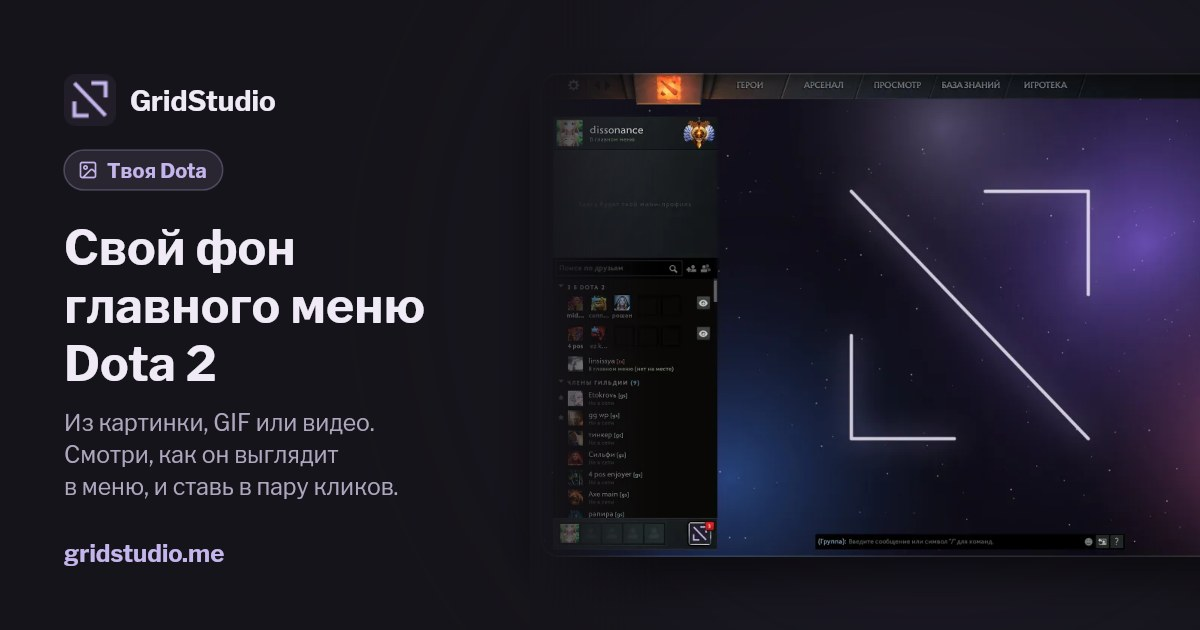
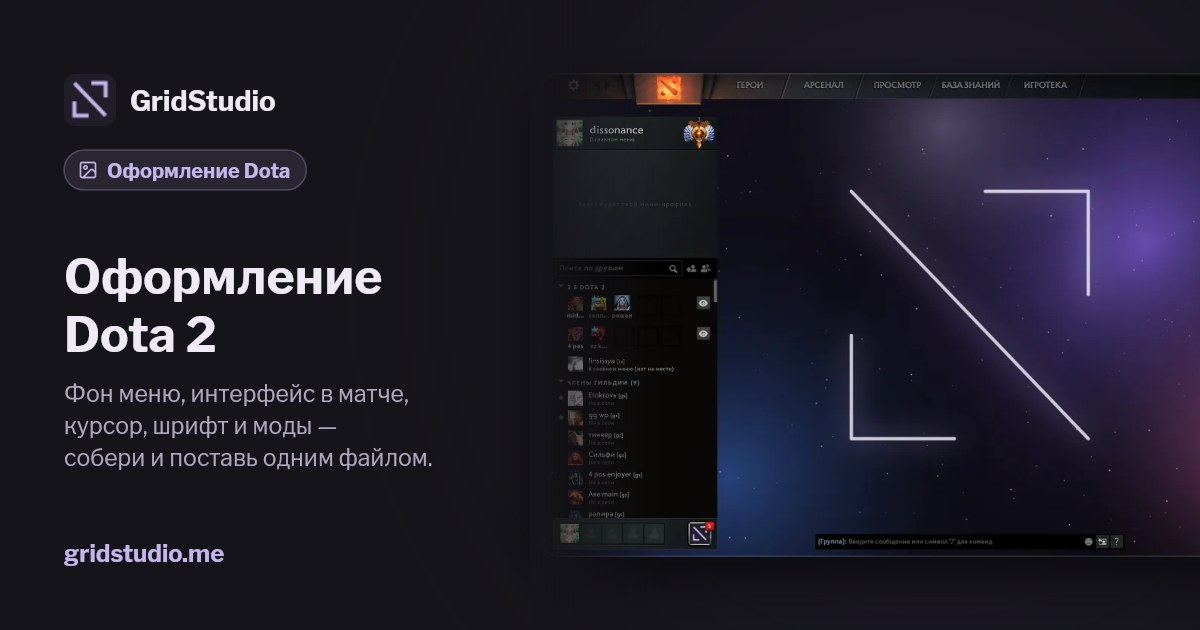
GridStudio 2.0.1

Changed region(s): [[0.0308, 0.3619, 0.37, 0.7841], [0.0925, 0.2111, 0.2775, 0.3016]]

diff --git a/src/landing/Home.jsx b/src/landing/Home.jsx
@@ -2,10 +2,11 @@ import { useEffect, useState } from 'react';
 import { Icon } from '../Icon.jsx';
 import { Spot, useSpot } from '../Spot.jsx';
 import editorImage from '../../assets/design/editor-landing-reference.webp';
+import customizeImage from '../../assets/design/customize-card.webp';
 import linsissya from '../../assets/design/linsissya.webp';
 import dissonance from '../../assets/design/dissonance.webp';
 import StageArtwork from './StageArtwork.jsx';
-import { ADVERTISE_PATH, CATALOG_PATH, CUSTOMIZE_PATH, FONT_PATH, GUIDES_PATH, STUDIO_PATH } from '../catalog/api.js';
+import { ADVERTISE_PATH, CATALOG_PATH, CUSTOMIZE_PATH, GUIDES_PATH, STUDIO_PATH } from '../catalog/api.js';
 import { AccountButton, AccountProvider } from '../catalog/Account.jsx';
 import { VersionButton } from '../ChangelogButton.jsx';
 import { openCommunity } from '../Community.jsx';
@@ -24,6 +25,8 @@ const SUPPORT_URL = 'https://www.donationalerts.com/r/linsiss';
 // Dotadle's number today (Moscow day; #1 = 2026-10-06, server/dotadle.mjs).
 const dotadleNumber = () => Math.floor((Date.now() + 3 * 3_600_000) / 86_400_000) - Date.UTC(2026, 9, 6) / 86_400_000 + 1;
 const GRID_HEROES = [14, 74, 11, 1, 44, 8, 5, 25];
+// 2026-10-19 (the owner picked «2» of three light variants): two cards, «Оформление Dota» (/customize,
+// the font is part of it) and «Сетка героев», and Dotadle, the minigames and the guides as three tiles.
 
 function Brand() {
   return <a className="landing-brand" href="./" aria-label={t('GridStudio, главная')}>
@@ -32,33 +35,31 @@ function Brand() {
   </a>;
 }
 
-// The menu background card shows this week's most liked background (its poster; the light copy of the
-// video plays while the pointer is on it).
-function usePopularBackground() {
+// The customization card: a screenshot of /customize itself (the owner, 2026-10-19: «поменяй картинку на
+// скриншот из редактора оформления»), made with Playwright on the menu scene with a workshop background.
+function CustomizeThumb() {
+  return <span className="home-thumb" aria-hidden="true"><img src={customizeImage} alt="" loading="lazy" decoding="async" /></span>;
+}
+// The grids card shows this week's most liked grid as Dota draws it (its link-preview picture, cropped to the
+// grid: the owner, 2026-10-19 — «карточка сеток выглядит очень бедно»); hero portraits until it loads.
+function usePopularGrid() {
   const [item, setItem] = useState(null);
   useEffect(() => {
     const c = new AbortController();
-    fetch('/api/catalog/backgrounds?sort=week', { signal: c.signal, credentials: 'omit' }).then((r) => (r.ok ? r.json() : null))
+    fetch('/api/catalog/works?sort=week', { signal: c.signal, credentials: 'omit' }).then((r) => (r.ok ? r.json() : null))
       .then((data) => setItem(data?.items?.find((row) => !row.tags?.includes('18+')) || null), () => {});
     return () => c.abort();
   }, []);
   return item;
 }
-function BackgroundThumb() {
-  const item = usePopularBackground();
-  if (!item) return <span className="home-thumb is-empty" aria-hidden="true"><Icon name="image" /></span>;
-  const media = (file) => `/api/catalog/backgrounds/${item.id}/${file}`;
-  return <span className="home-thumb" aria-hidden="true"><img src={media('poster.jpg')} alt="" loading="lazy" />
-    {item.preview && <video src={media('preview.webm')} muted loop playsInline preload="none"
-      onPointerEnter={(event) => event.currentTarget.play().catch(() => {})} onPointerLeave={(event) => event.currentTarget.pause()} />}</span>;
-}
 function GridThumb() {
-  return <span className="home-thumb is-grid" aria-hidden="true">{GRID_HEROES.map((id) => <img key={id} src={`./assets/heroes/${id}.webp`} alt="" loading="lazy" />)}</span>;
+  const item = usePopularGrid(), [ready, setReady] = useState(false);
+  return <span className={`home-thumb is-grid${ready ? ' has-work' : ''}`} aria-hidden="true">
+    {!ready && GRID_HEROES.map((id) => <img key={id} src={`./assets/heroes/${id}.webp`} alt="" loading="lazy" />)}
+    {item && <span className="home-grid-shot"><img src={`/api/catalog/preview/work/${item.id}.jpg?revision=${item.revision}`} alt="" loading="lazy" onLoad={() => setReady(true)} /></span>}
+    {item && ready && <span className="home-thumb-caption">«{item.title}» — {item.creator?.name || item.author}</span>}
+  </span>;
 }
-function FontThumb() {
-  return <span className="home-thumb is-font" aria-hidden="true"><b className="is-serif">Аа</b><b className="is-pixel">Аа</b><b className="is-comic">Аа</b></span>;
-}
-
 function Card({ thumb, title, text, action, href, more, moreHref }) {
   return <article className="home-card">
     <a className="home-card-media" href={href} tabIndex={-1} aria-hidden="true">{thumb}</a>
@@ -88,12 +89,24 @@ function Credits() {
   </div>;
 }
 
+// Dotadle, the minigames and the guides side by side, the rows' look in a smaller size.
+function Tiles() {
+  return <nav className="home-tiles" aria-label={t('Ещё на сайте')}>
+    <a className="home-dotadle home-tile" href={DOTADLE_PATH}><span className="home-dotadle-art" aria-hidden="true">{'.:+\n=#@\n-*%'}</span>
+      <span><b>{t('Dotadle #{number}', { number: dotadleNumber() })}</b><small>{t('Герой дня по портрету')}</small></span></a>
+    <a className="home-dotadle home-tile home-minigames" href={MINIGAMES_PATH}><img className="home-dotadle-art" src="./assets/minigames/hub/race-480.webp" alt="" aria-hidden="true" loading="lazy" decoding="async" />
+      <span><b>{t('Мини-игры')}</b><small>{t('Девять игр Crownfall')}</small></span></a>
+    <a className="home-dotadle home-tile" href={GUIDES_PATH}><span className="home-dotadle-art" aria-hidden="true"><Icon name="guides" /></span>
+      <span><b>{t('Гайды')}</b><small>{t('Моды и советы')}</small></span></a>
+  </nav>;
+}
+
 function HomePage() {
   useLanguage();
   // With the banner (src/Spot.jsx) the stage is smaller to leave it room; until the answer, as if shown.
   const spot = useSpot(), spotShown = spot === undefined || !!spot?.places?.landing;
   useEffect(() => { document.title = t('GridStudio — сетки героев, фоны и шрифты для Dota 2'); });
-  return <div className="landing-page landing-stage home-page">
+  return <div className="landing-page landing-stage home-page is-look-2">
     <header className="landing-nav home-nav">
       <Brand />
       <nav aria-label={t('Разделы')}><a href={CATALOG_PATH}>{t('Мастерская')}</a><a href={GUIDES_PATH}>{t('Гайды')}</a>
@@ -102,16 +115,12 @@ function HomePage() {
     <main className="landing-main home-main">
       <div className="landing-copy home-copy">
         <h1>{t('Настрой Dota 2\nпод себя.').split('\n').map((line, i) => i ? <span key={i}><br /><span className="heading-line">{line}</span></span> : line)}</h1>
-        <p className="landing-description">{t('Фоны главного меню, сетки героев и шрифты — бесплатно, прямо в браузере.')}</p>
-        <div className="home-cards">
-          <Card thumb={<BackgroundThumb />} title={t('Фон и интерфейс')} text={t('Живой фон меню, HUD, курсор и тексты — одним файлом.')} action={t('Настроить')} href={CUSTOMIZE_PATH} more={t('Готовые')} moreHref={`${CATALOG_PATH}?backgrounds`} />
-          <Card thumb={<GridThumb />} title={t('Сетка героев')} text={t('Герои, рисунки и ASCII-арты из символов.')} action={t('Создать сетку')} href={STUDIO_PATH} more={t('Готовые')} moreHref={CATALOG_PATH} />
-          <Card thumb={<FontThumb />} title={t('Шрифт')} text={t('Любой шрифт с кириллицей в чате и меню.')} action={t('Выбрать шрифт')} href={FONT_PATH} />
+        <p className="landing-description">{t('Меню, интерфейс и сетка героев — бесплатно, прямо в браузере. А между катками — мини-игры.')}</p>
+        <div className="home-cards is-two">
+          <Card thumb={<CustomizeThumb />} title={t('Оформление Dota')} text={t('Фон меню, интерфейс в матче, курсор, шрифт и моды — собери и поставь одним файлом.')} action={t('Настроить')} href={CUSTOMIZE_PATH} more={t('Готовые фоны')} moreHref={`${CATALOG_PATH}?backgrounds`} />
+          <Card thumb={<GridThumb />} title={t('Сетка героев')} text={t('Разложи героев по позициям, нарисуй символами арт или надпись и поставь сетку в Dota за пару кликов.')} action={t('Создать сетку')} href={STUDIO_PATH} more={t('Готовые сетки')} moreHref={CATALOG_PATH} />
         </div>
-        <a className="home-dotadle" href={DOTADLE_PATH}><span className="home-dotadle-art" aria-hidden="true">{'.:+\n=#@\n-*%'}</span>
-          <span><b>{t('Dotadle #{number}', { number: dotadleNumber() })}</b><small>{t('Угадай героя дня по портрету из символов')}</small></span><Icon name="arrow" /></a>
-        <a className="home-dotadle home-minigames" href={MINIGAMES_PATH}><img className="home-dotadle-art" src="./assets/minigames/hub/race-480.webp" alt="" aria-hidden="true" loading="lazy" decoding="async" />
-          <span><b>{t('Мини-игры')}</b><small>{t('Девять игр Crownfall из Dota 2 прямо в браузере')}</small></span><Icon name="arrow" /></a>
+        <Tiles />
       </div>
       <div className={`landing-visual${spotShown ? ' has-spot' : ''}`}><StageArtwork image={editorImage} /><Spot place="landing" className="is-landing" /></div>
     </main>

diff --git a/src/landing/home.css b/src/landing/home.css
@@ -39,12 +39,22 @@
 .home-card p { margin:0 2px; flex:1; color:var(--lp-muted); font-size:13px; line-height:1.4; }
 .home-card-actions { display:flex; flex-direction:column; align-items:stretch; gap:4px; margin-top:auto; padding-top:6px; }
 .home-card-action { display:inline-flex; align-items:center; justify-content:center; min-height:36px; padding:0 12px; border-radius:8px; background:var(--lp-raised); font-size:13px; font-weight:500; white-space:nowrap; transition:background 160ms; }
-.home-card:first-child .home-card-action { background:var(--lp-accent); color:var(--lp-accent-ink); }
-.home-card-action:hover { background:#383340; }
-.home-card:first-child .home-card-action:hover { background:#d4c7f6; }
-.home-card-more { display:inline-flex; align-items:center; justify-content:center; gap:4px; min-height:26px; color:var(--lp-muted); font-size:13px; white-space:nowrap; }
-.home-card-more:hover { color:var(--lp-ink); }
-.home-card-more svg { width:14px; height:14px; }
+/* Every card's main action is the accent one (2026-10-19: «по какой логике кнопки разного цвета?»). */
+.home-card .home-card-action { background:var(--lp-accent); color:var(--lp-accent-ink); }
+.home-card .home-card-action:hover { background:#d4c7f6; }
+/* «Готовые …»: the second action, a real button next to the main one — a light fill and edge, the arrow
+   moving on hover (the owner, 2026-10-19: a bare text link was not enough). */
+.home-card-more { display:inline-flex; align-items:center; justify-content:center; gap:8px; min-height:36px; padding:0 14px 0 16px; border:1px solid #ffffff1f; border-radius:8px; background:#ffffff0d; color:var(--lp-ink); font-size:13px; font-weight:500; white-space:nowrap; transition:background 160ms, border-color 160ms; }
+.home-card-more:hover { border-color:#ffffff38; background:#ffffff17; }
+.home-card-more svg { width:14px; height:14px; color:var(--lp-muted); transition:translate 160ms, color 160ms; }
+.home-card-more:hover svg { translate:2px 0; color:var(--lp-ink); }
+/* The week's grid in the grids card: the grid part of its link-preview picture (1200 × 630, the grid at
+   140,21 → 1060,479), scaled to the card's height and centred. */
+.home-thumb.has-work { display:block; padding:0; background:#0e0d12; }
+.home-grid-shot { position:absolute; inset:0; overflow:hidden; }
+.home-thumb .home-grid-shot img { position:absolute; left:-23.7%; top:-4.6%; width:147.4%; height:auto; max-width:none; aspect-ratio:auto; border-radius:0; }
+.home-thumb.is-grid:not(.has-work) .home-grid-shot { opacity:0; }
+.home-thumb-caption { position:absolute; left:8px; bottom:8px; max-width:calc(100% - 16px); padding:3px 8px; overflow:hidden; border-radius:6px; background:#0b0a0fcc; color:var(--lp-ink); font-size:11.5px; white-space:nowrap; text-overflow:ellipsis; }
 
 .home-dotadle { display:flex; align-items:center; gap:14px; margin-top:12px; padding:10px 16px 10px 10px; border:1px solid var(--lp-line); border-radius:14px; background:#1b1922; transition:border-color 160ms, background 160ms; }
 .home-dotadle:hover { border-color:#c4b5ed59; background:#1f1c27; }
@@ -55,6 +65,29 @@
 .home-minigames .home-dotadle-art { object-fit:cover; padding:0; }
 .home-dotadle + .home-dotadle { margin-top:8px; }
 .home-dotadle > svg { width:18px; height:18px; color:var(--lp-muted); }
+
+/* The home page as the owner picked it on 2026-10-19 (variant «2»): two cards and three tiles. */
+.home-cards.is-two { grid-template-columns:repeat(2, minmax(0, 1fr)); }
+.home-cards.is-two .home-thumb { aspect-ratio:2 / 1; }
+.home-cards.is-two .home-card-actions { flex-direction:row; align-items:center; justify-content:space-between; gap:12px; }
+.home-cards.is-two .home-card-action { padding:0 18px; }
+/* 2: the cards a bit bigger, the rows as three tiles. */
+.is-look-2 .home-cards.is-two { gap:14px; }
+.is-look-2 .home-cards.is-two .home-card { padding:12px 12px 14px; gap:7px; }
+.is-look-2 .home-cards.is-two .home-thumb { aspect-ratio:16 / 9; border-radius:10px; }
+.is-look-2 .home-cards.is-two .home-card h2 { font-size:18px; }
+.is-look-2 .home-cards.is-two .home-card p { font-size:14px; }
+.is-look-2 .home-cards.is-two .home-card-action, .is-look-2 .home-cards.is-two .home-card-more { min-height:38px; }
+.is-look-2 .home-thumb.is-grid { gap:4px; padding:12px 16px; }
+.home-tiles { display:grid; grid-template-columns:repeat(3, minmax(0, 1fr)); gap:10px; margin-top:14px; container-type:inline-size; }
+.home-tiles .home-tile { margin-top:0; gap:10px; padding:8px 10px 8px 8px; }
+.home-tile .home-dotadle-art { flex:none; width:40px; height:40px; font-size:10px; }
+.home-tile .home-dotadle-art svg { width:20px; height:20px; }
+.home-tile > span:nth-child(2) { min-width:0; line-height:1.3; }
+.home-tile b { overflow:hidden; font-size:14px; white-space:nowrap; text-overflow:ellipsis; }
+.home-tile small { font-size:12px; line-height:1.3; }
+/* A narrow column keeps the tiles to their names. */
+@container (max-width: 560px) { .home-tile small { display:none; } .home-tile .home-dotadle-art { width:34px; height:34px; } }
 
 .home-footer { flex-wrap:wrap; padding-top:14px !important; }
 .home-credits { display:flex; align-items:center; flex-wrap:wrap; gap:4px 20px; }
@@ -89,4 +122,12 @@
   .home-card p { margin:0; }
   .home-card-actions { flex-direction:row; align-items:center; margin-top:6px; padding-top:0; gap:14px; }
   .home-footer { padding:20px !important; }
+  .home-cards.is-two { grid-template-columns:1fr; }
+  .home-cards.is-two .home-thumb, .is-look-2 .home-cards.is-two .home-thumb { aspect-ratio:16 / 10; }
+  .home-cards.is-two .home-card-actions { justify-content:flex-start; gap:14px; }
+  .home-cards.is-two .home-card-action { padding:0 12px; }
+  .is-look-2 .home-cards.is-two .home-card { grid-template-columns:128px minmax(0, 1fr); padding:10px; }
+  .is-look-2 .home-cards.is-two .home-card h2 { font-size:17px; }
+  .home-tiles { gap:8px; }
+  .home-tiles .home-tile { flex-direction:column; align-items:flex-start; gap:8px; padding:10px; }
 }

diff --git a/src/i18n/en/customize.js b/src/i18n/en/customize.js
@@ -463,7 +463,7 @@ export default {
   'Фон из мастерской {where}': 'A workshop background {where}',
   'Фоны для других экранов тоже (не {aspect})': 'Backgrounds for other screens too (not {aspect})',
   'Фоны мастерской': 'Workshop backgrounds',
-  'Твоя Dota: фон, интерфейс и шрифт — GridStudio': 'Your Dota: background, interface and font — GridStudio',
+  'Оформление Dota: фон, интерфейс и шрифт — GridStudio': 'Dota customization: background, interface and font — GridStudio',
   'Всё собирается и ставится на компьютере. Пришлём ссылку в Telegram — открой её на ПК.': 'Everything is made and installed on a computer. We’ll send you a link in Telegram — open it on your PC.',
   'Главное меню': 'Main menu',
   'Фон меню': 'Menu background',
@@ -501,7 +501,7 @@ export default {
   'пока ничего не изменено': 'nothing changed yet',
   'Пропорции экрана для фона меню': 'Screen shape for the menu background',
   'Изменено {count} из {all}': 'Changed {count} of {all}',
-  'Твоя Dota': 'Your Dota',
+  'Оформление Dota': 'Dota customization',
   'Фон, интерфейс, шрифт и тексты — на одной странице. Меняй что хочешь: превью само покажет нужный экран, а скачается всё одним файлом.': 'Background, interface, font and texts on one page. Change anything: the preview shows the right screen by itself, and it all downloads as one file.',
   'изменено {count} из {all}': 'changed {count} of {all}',
   'как в Dota': 'as in Dota',
@@ -582,7 +582,7 @@ export default {
   'для меню': 'for the menu',
   'Файлы тоже лягут в dota_russian: моды Dota читает только из папки языка озвучки. Команда PowerShell включит русскую озвучку, интерфейс останется английским.': 'The files go to dota_russian too: Dota reads mods only from the voice-over language folder. The PowerShell command turns on the Russian voice-over; the interface stays English.',
   'Это изменение файлов игры. Банов за шрифты, фоны и вид интерфейса не известно: они ничего не дают в игре. Но правила Steam изменение файлов формально не разрешают, так что решение за тобой. Всё возвращается проверкой целостности файлов в Steam.': 'This changes the game’s files. No bans for fonts, backgrounds or the interface look are known: they give no edge in the game. But Steam’s rules don’t formally allow changing game files, so it’s your call. Steam’s file check puts everything back.',
-  'Твоя Dota от GridStudio — одним файлом.': 'Your Dota from GridStudio — in one file.',
+  'Оформление Dota от GridStudio — одним файлом.': 'Dota customization from GridStudio — in one file.',
   'В сборке: {list}.': 'In the build: {list}.',
   'Проще всего — командой PowerShell с сайта (gridstudio.me/background → «Командой PowerShell»): она сама найдёт Dota, поставит всё и запомнит, что вернуть.': 'The easiest way is the PowerShell command from the site (gridstudio.me/background -> PowerShell command): it finds Dota by itself, installs everything and remembers what to put back.',
   '2. В Steam: Dota 2 -> «Свойства» -> «Установленные файлы» -> «Обзор». Откроется папка dota 2 beta.': '2. In Steam: Dota 2 -> Properties -> Installed Files -> Browse. The dota 2 beta folder opens.',

diff --git a/src/i18n/en/landing.js b/src/i18n/en/landing.js
@@ -47,4 +47,10 @@ export default {
   'Сетка героев': 'Hero grid', 'Герои, рисунки и ASCII-арты из символов.': 'Heroes, drawings and ASCII art from symbols.', 'Создать сетку': 'Create a grid',
   'Шрифт': 'Font', 'Любой шрифт с кириллицей в чате и меню.': 'Any font with Cyrillic in chat and menus.', 'Выбрать шрифт': 'Pick a font',
   'Dotadle #{number}': 'Dotadle #{number}', 'Угадай героя дня по портрету из символов': 'Guess the hero of the day from a portrait made of symbols', 'Мини-игры': 'Minigames', 'Девять игр Crownfall из Dota 2 прямо в браузере': 'Nine Crownfall games from Dota 2, right in the browser',
+  // The home page since 2026-10-19: two cards and three tiles.
+  'Меню, интерфейс и сетка героев — бесплатно, прямо в браузере. А между катками — мини-игры.': 'Menu, interface and hero grid — free, right in the browser. And minigames between matches.',
+  'Оформление Dota': 'Dota customization', 'Фон меню, интерфейс в матче, курсор, шрифт и моды — собери и поставь одним файлом.': 'Menu background, in-match interface, cursor, font and mods — build them and install as one file.',
+  'Разложи героев по позициям, нарисуй символами арт или надпись и поставь сетку в Dota за пару кликов.': 'Sort heroes by position, draw art or a caption in symbols and put the grid into Dota in a couple of clicks.',
+  'Готовые фоны': 'Ready backgrounds', 'Готовые сетки': 'Ready grids',
+  'Ещё на сайте': 'More on the site', 'Герой дня по портрету': 'Hero of the day by portrait', 'Девять игр Crownfall': 'Nine Crownfall games', 'Моды и советы': 'Mods and tips',
 };

diff --git a/customize.html b/customize.html
@@ -5,8 +5,8 @@
     <meta name="viewport" content="width=device-width, initial-scale=1"/>
     <meta name="theme-color" content="#15141a"/>
     <meta name="referrer" content="no-referrer"/>
-    <meta name="description" content="Твоя Dota 2 на одной странице: фон главного меню из картинки, GIF или видео, вид HUD, чат, курсор, шрифт и тексты — и всё одним файлом или одной командой."/>
-    <title>Твоя Dota: фон, интерфейс и шрифт — GridStudio</title>
+    <meta name="description" content="Оформление Dota 2 на одной странице: фон главного меню из картинки, GIF или видео, вид HUD, чат, курсор, шрифт и тексты — и всё одним файлом или одной командой."/>
+    <title>Оформление Dota: фон, интерфейс и шрифт — GridStudio</title>
     <link rel="icon" href="./assets/favicon-focus.svg" type="image/svg+xml"/>
   </head>
   <body><div id="catalog-root"></div><script type="module" src="/src/customize/main.jsx"></script><noscript>Для этой страницы необходимо включить JavaScript.</noscript></body>

diff --git a/src/customize/customize-pack.js b/src/customize/customize-pack.js
@@ -12,7 +12,7 @@ export const customizeRemoveCommand = () => installCommand(`${location.origin}/a
 
 // The archive's read-me in the site's language (Windows line ends, with a BOM for Notepad).
 function readme({ titles, russian, fonts, credits = [] }) {
-  const lines = [t('Твоя Dota от GridStudio — одним файлом.'), t('В сборке: {list}.', { list: titles.join(', ') }), '',
+  const lines = [t('Оформление Dota от GridStudio — одним файлом.'), t('В сборке: {list}.', { list: titles.join(', ') }), '',
     t('Проще всего — командой PowerShell с сайта (gridstudio.me/background → «Командой PowerShell»): она сама найдёт Dota, поставит всё и запомнит, что вернуть.'), '',
     t('Установка вручную:'), t('1. Закрой Dota 2.'), t('2. В Steam: Dota 2 -> «Свойства» -> «Установленные файлы» -> «Обзор». Откроется папка dota 2 beta.')];
   let step = 3;

diff --git a/src/customize/CustomizePage.jsx b/src/customize/CustomizePage.jsx
@@ -201,7 +201,7 @@ export default function CustomizePage({ preset, studioItem, onRemove }) {
     </section>
     <aside className="cz-panel">
       <div className="cz-panel-body">
-        <header className="cz-head"><h1>{t('Твоя Dota')}</h1>
+        <header className="cz-head"><h1>{t('Оформление Dota')}</h1>
           <p>{t('Фон, интерфейс, шрифт и тексты — на одной странице. Меняй что хочешь: превью само покажет нужный экран, а скачается всё одним файлом.')}</p></header>
         {GROUPS().map(([group, title]) => {
           const list = MODS.filter((module) => module.group === group), count = list.filter((module) => states[module.id] === 'changed').length;

diff --git a/src/customize/CustomizeApp.jsx b/src/customize/CustomizeApp.jsx
@@ -30,7 +30,7 @@ export default function CustomizeApp() {
   // RU / EN redraws the page in place (its files and settings stay).
   const lang = useLanguage();
   const [preset, setPreset] = useState(() => LINKED ? { id: LINKED } : null);
-  useEffect(() => { document.title = t('Твоя Dota: фон, интерфейс и шрифт — GridStudio'); }, [lang]);
+  useEffect(() => { document.title = t('Оформление Dota: фон, интерфейс и шрифт — GridStudio'); }, [lang]);
   useEffect(() => {
     if (!LINKED) return;
     const url = new URL(location.href); url.searchParams.delete('background'); history.replaceState(history.state, '', url);

diff --git a/CHANGELOG.md b/CHANGELOG.md
@@ -1,5 +1,12 @@
 # GridStudio
 
+## 2.0.1 — 19 октября 2026
+
+### Сайт
+
+- Главная: две карточки — «Оформление Dota» (скриншот редактора оформления) и «Сетка героев» (самая залайканная сетка недели в том виде, как её рисует Dota), у обеих одинаковые кнопки «Настроить» / «Создать сетку» и «Готовые фоны» / «Готовые сетки». Отдельной карточки «Шрифт» больше нет — он внутри «Оформления Dota». Dotadle, мини-игры и гайды — тремя плитками ниже.
+- «Твоя Dota» переименована в «Оформление Dota»: заголовок и описание страницы /customize, превью ссылки, ПРОЧТИ.txt в архиве.
+
 ## 2.0.0 — 18 октября 2026
 
 ### Твоя Dota
